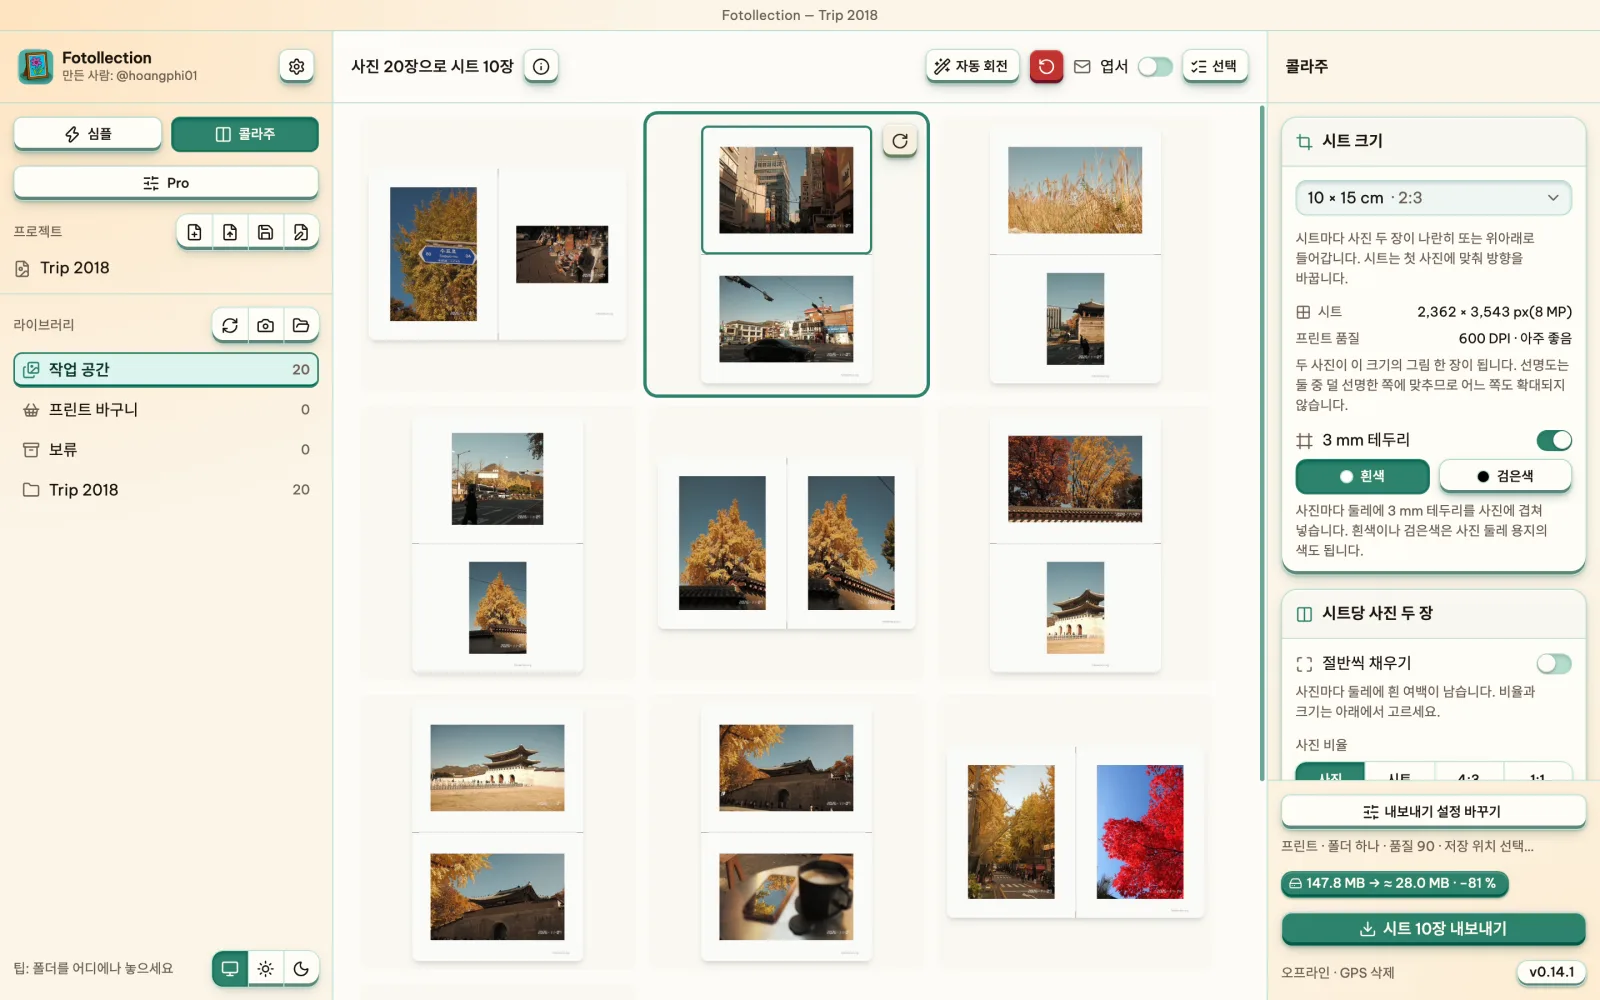
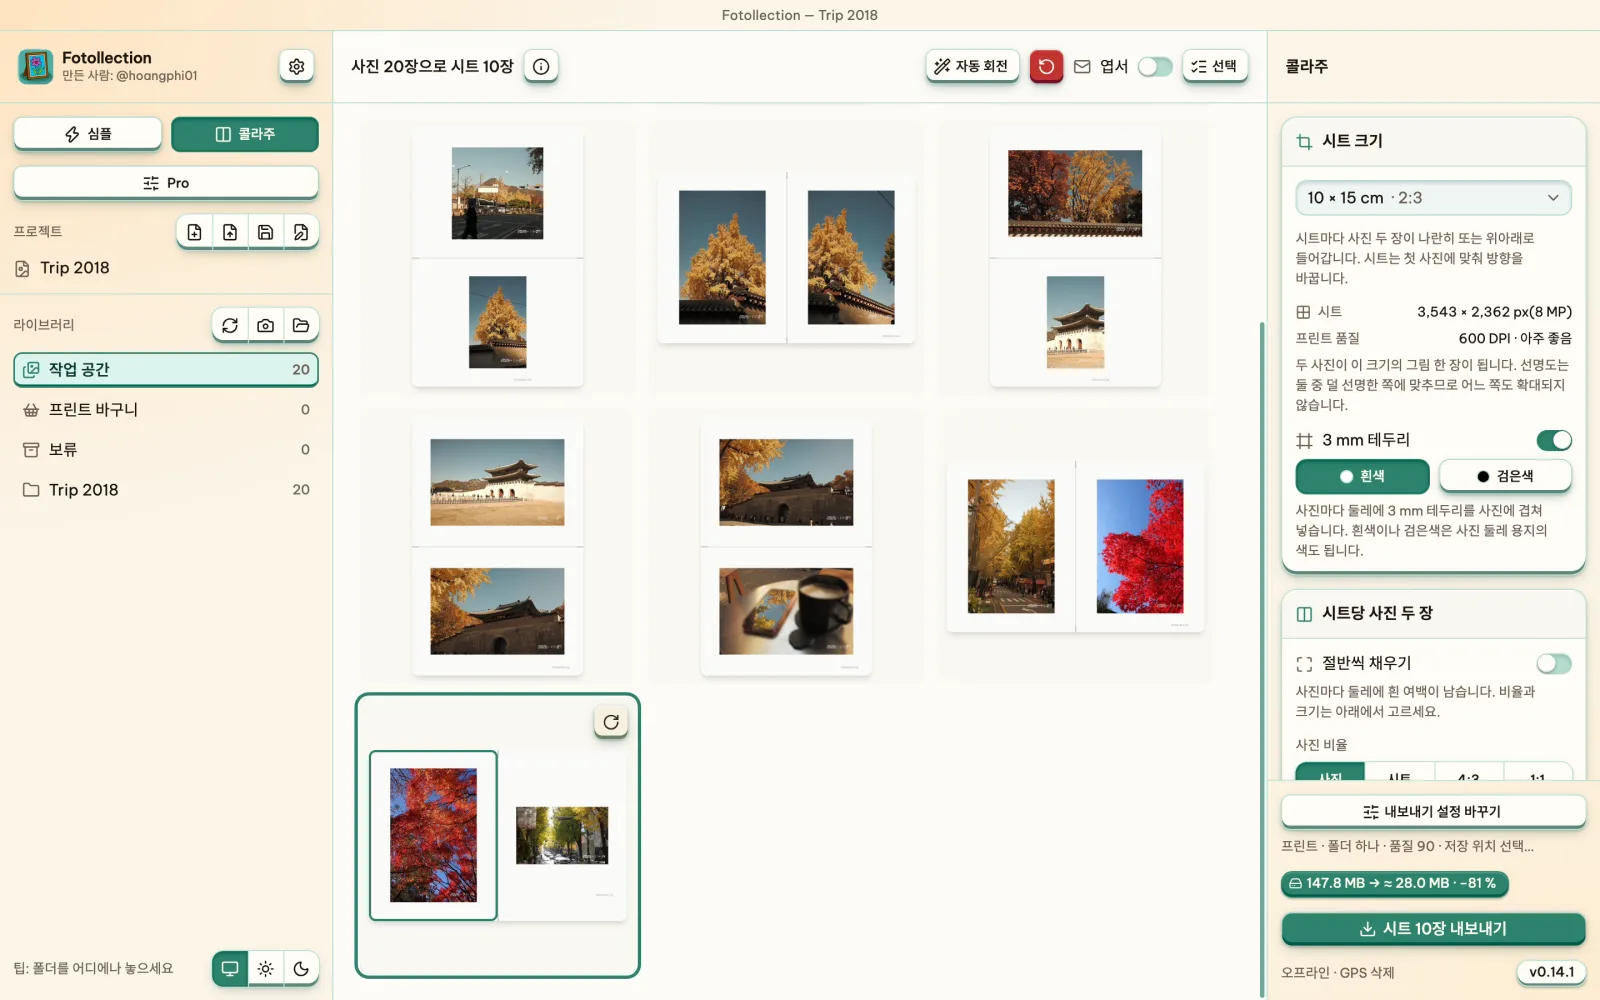
fix(site): the Korean collage sheets repeat no photo the page already shows: two Seoul streets among the prints, the red maples and a ginkgo street side by side in the app's preview [FR-135]

diff --git a/site/screenshots/results.py b/site/screenshots/results.py
@@ -27,7 +27,7 @@ PICKS = {
            "stamp": ("preview/stamp", "IMG_5745"), "sheet": ("sheet", ("IMG_4329", "IMG_4421")),
            "frame": ("preview/frame", "IMG_5758")},
     "ko": {"card": ("sheet-postcard-full", "DSCF2041"), "card2": ("sheet-postcard", "DSCF1990"),
-           "stamp": ("preview/stamp", "IMG_1469"), "sheet": ("sheet", ("DSCF2023", "DSCF2041")),
+           "stamp": ("preview/stamp", "IMG_1469"), "sheet": ("sheet", ("DSCF1972", "DSCF1975")),
            "frame": ("preview/frame", "DSCF2022")},
     "en": {"card": ("sheet-postcard-full", "P1068073"), "card2": ("sheet-postcard", "P1067865"),
            "stamp": ("preview/stamp", "P1067865"), "sheet": ("sheet", ("P1067819", "P1067829")),
